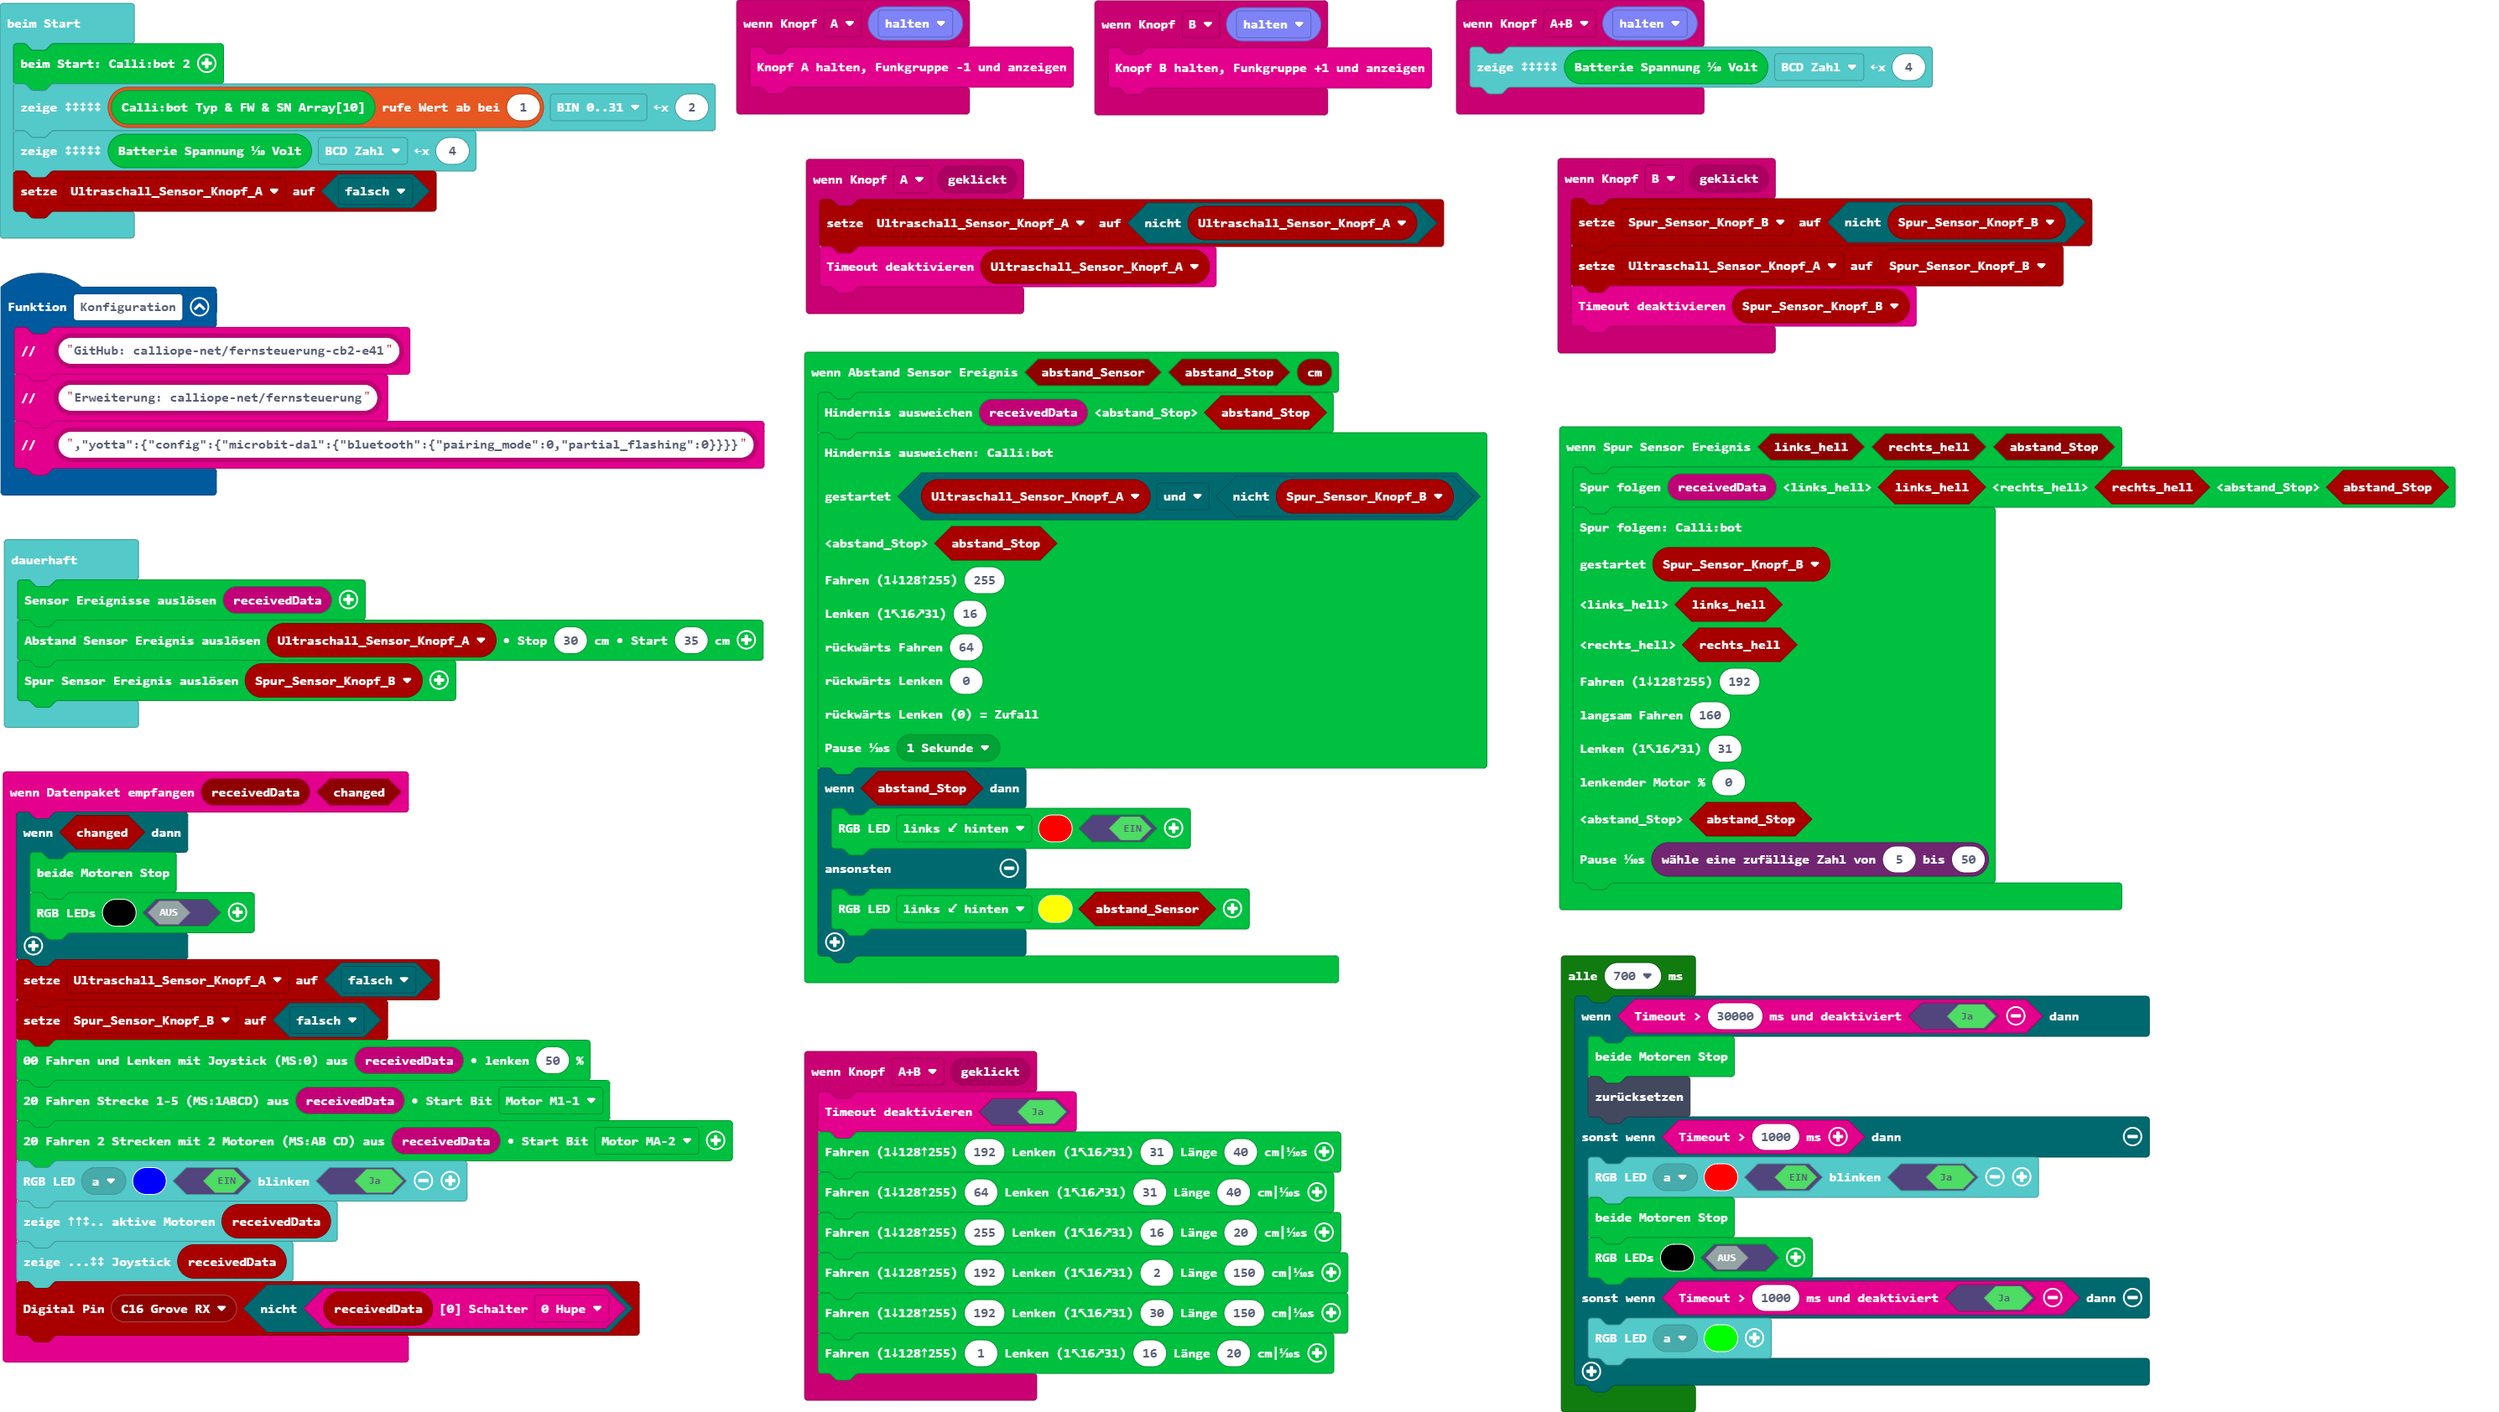
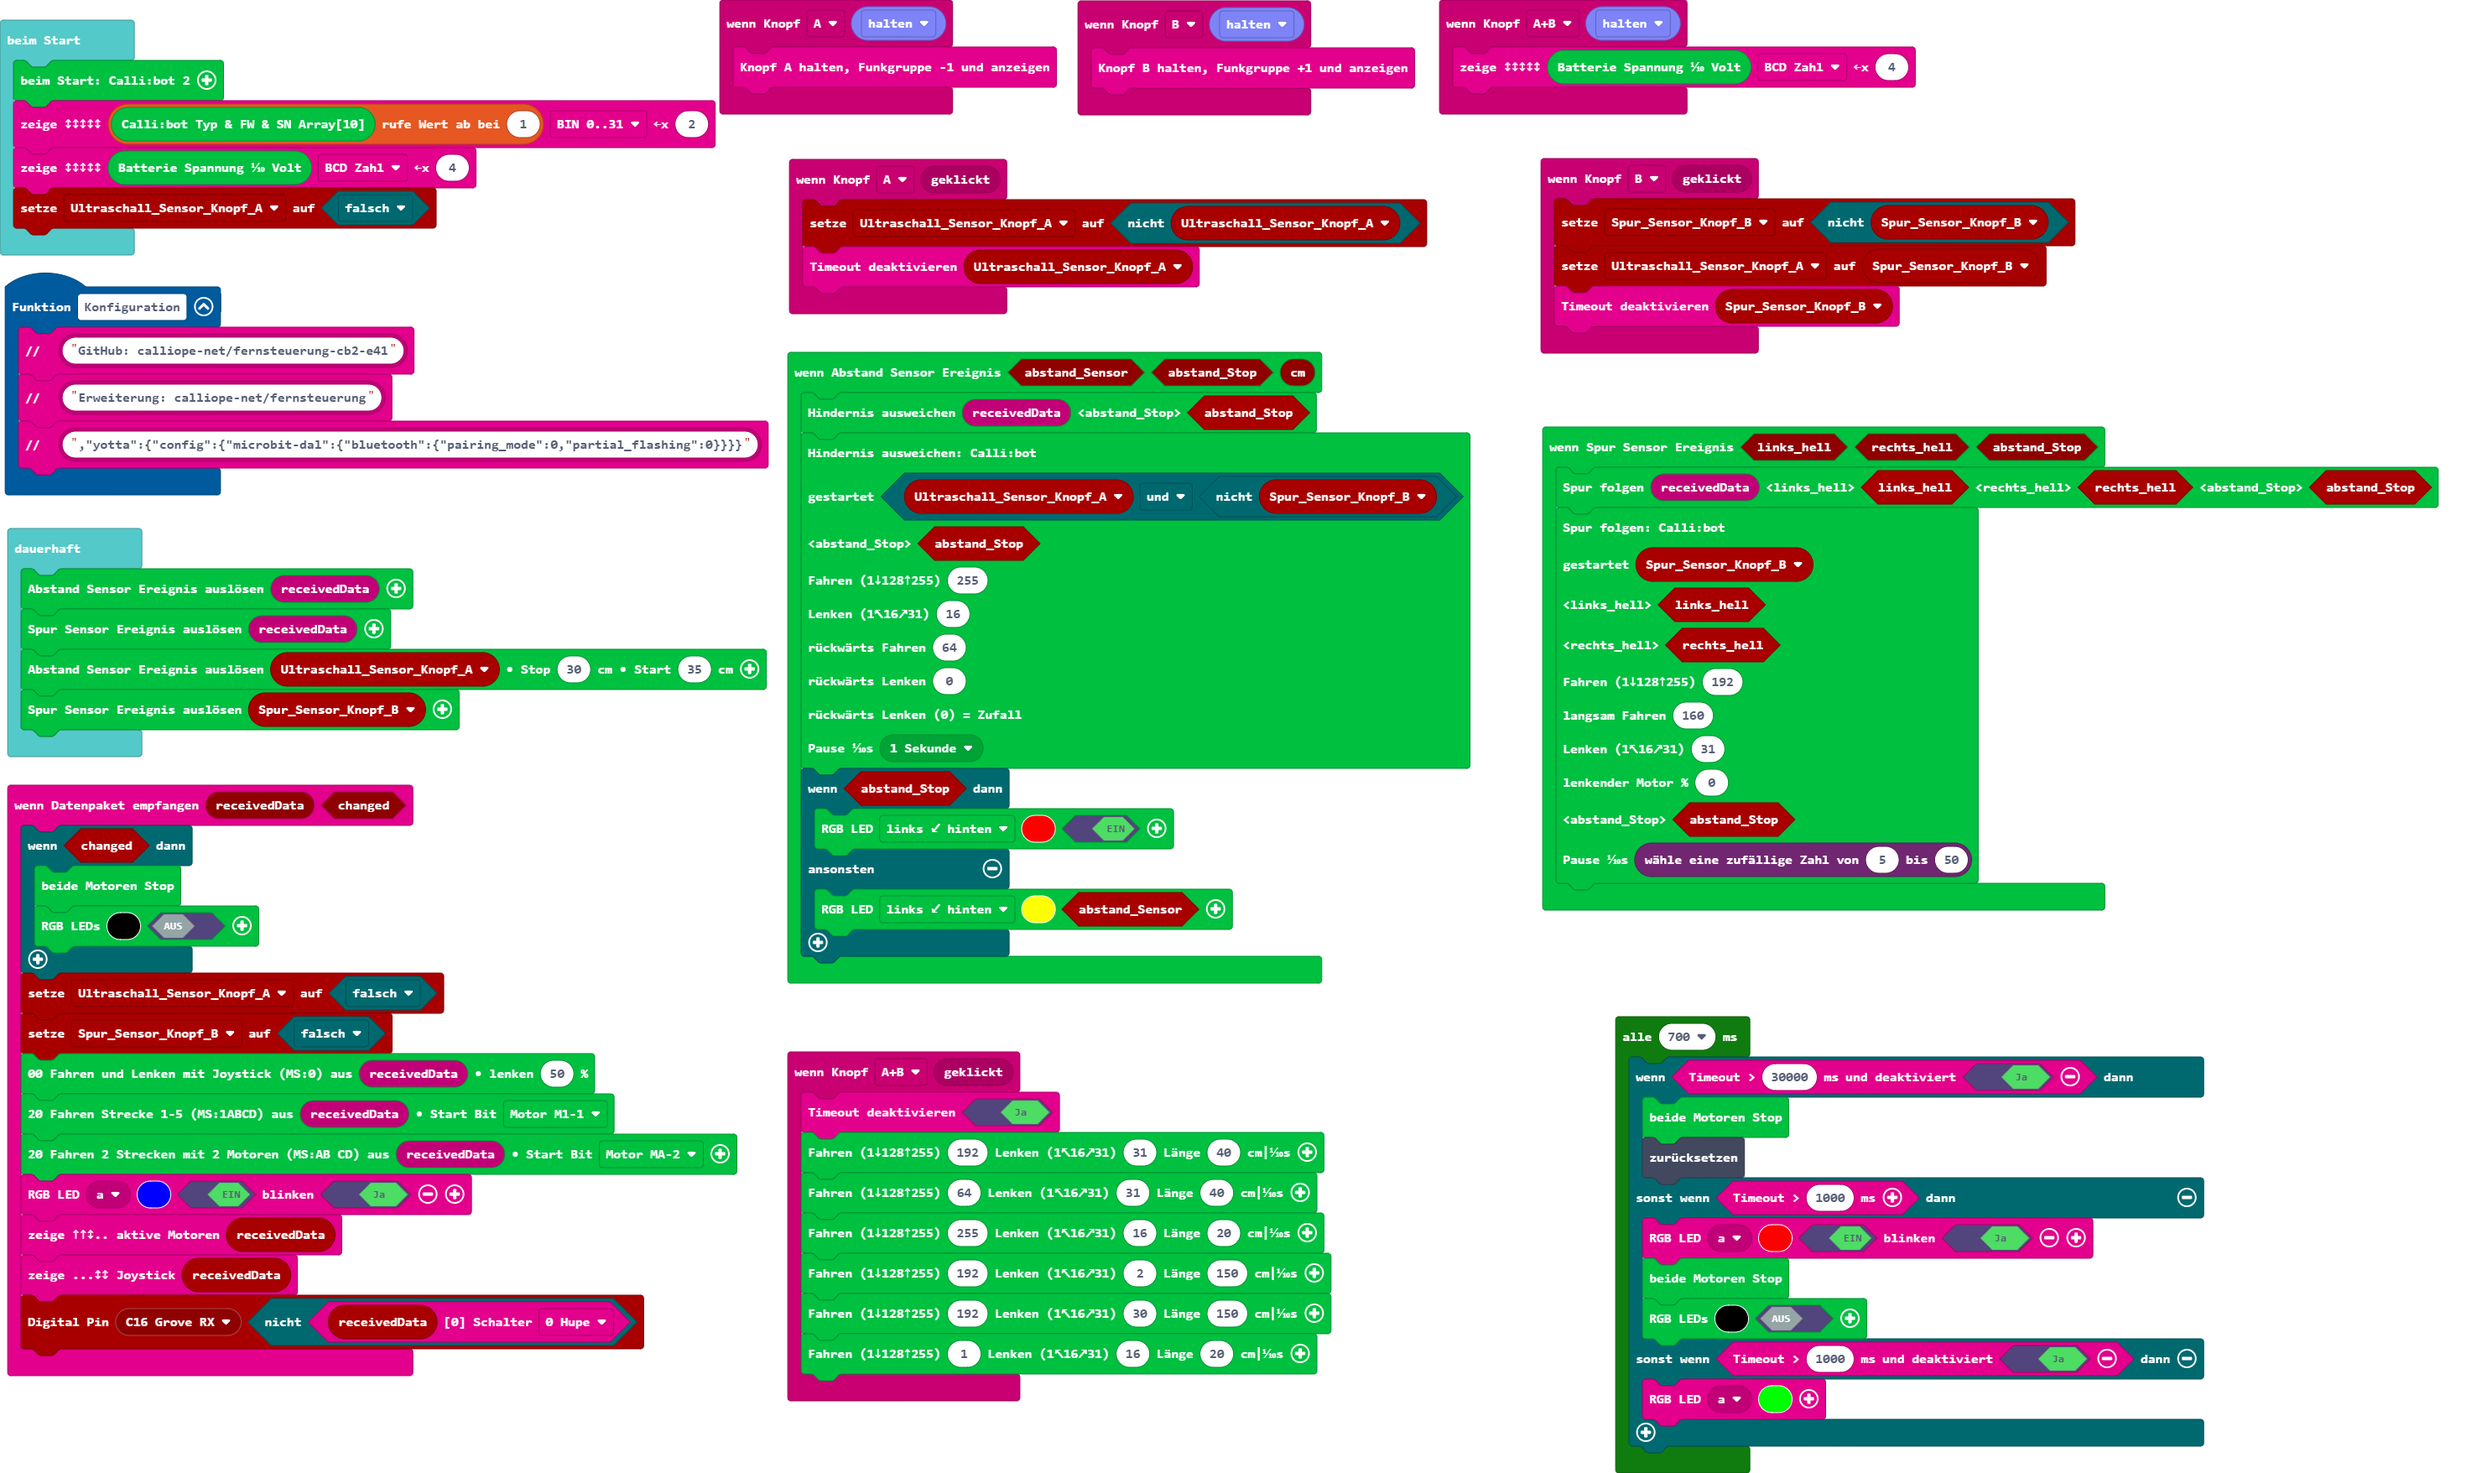
Aktualisiere pxt.json, main.blocks, main.ts

diff --git a/main.ts b/main.ts
@@ -83,7 +83,8 @@ btf.zeigeBIN(cb2.readVersionArray()[1], btf.ePlot.bin, 2)
 btf.zeigeBIN(cb2.readSpannung(), btf.ePlot.bcd, 4)
 Ultraschall_Sensor_Knopf_A = false
 basic.forever(function () {
-    cb2.raiseBufferEvents(btf.btf_receivedBuffer19())
+    cb2.buffer_raiseAbstandEvent(btf.btf_receivedBuffer19())
+    cb2.buffer_raiseSpurEvent(btf.btf_receivedBuffer19())
     cb2.raiseAbstandEvent(Ultraschall_Sensor_Knopf_A, 30, 35)
     cb2.raiseSpurEvent(Spur_Sensor_Knopf_B)
 })
